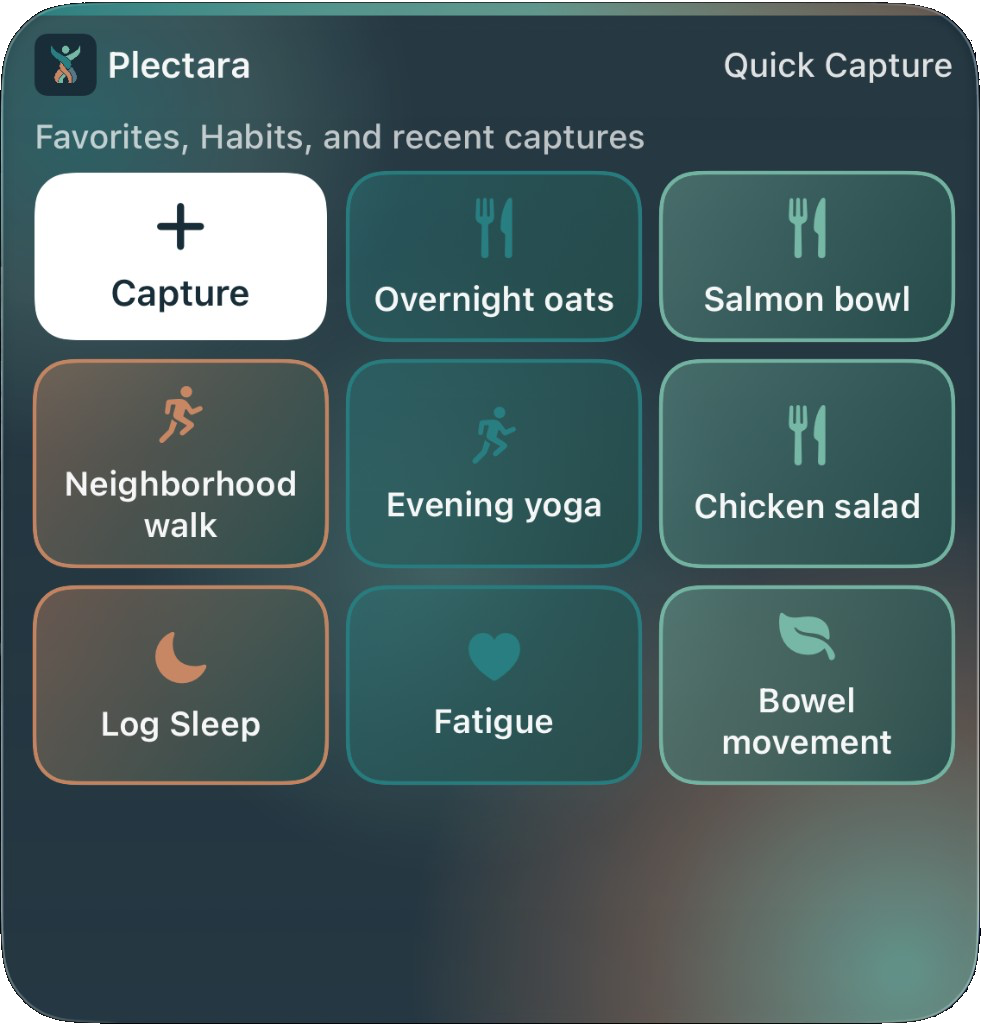
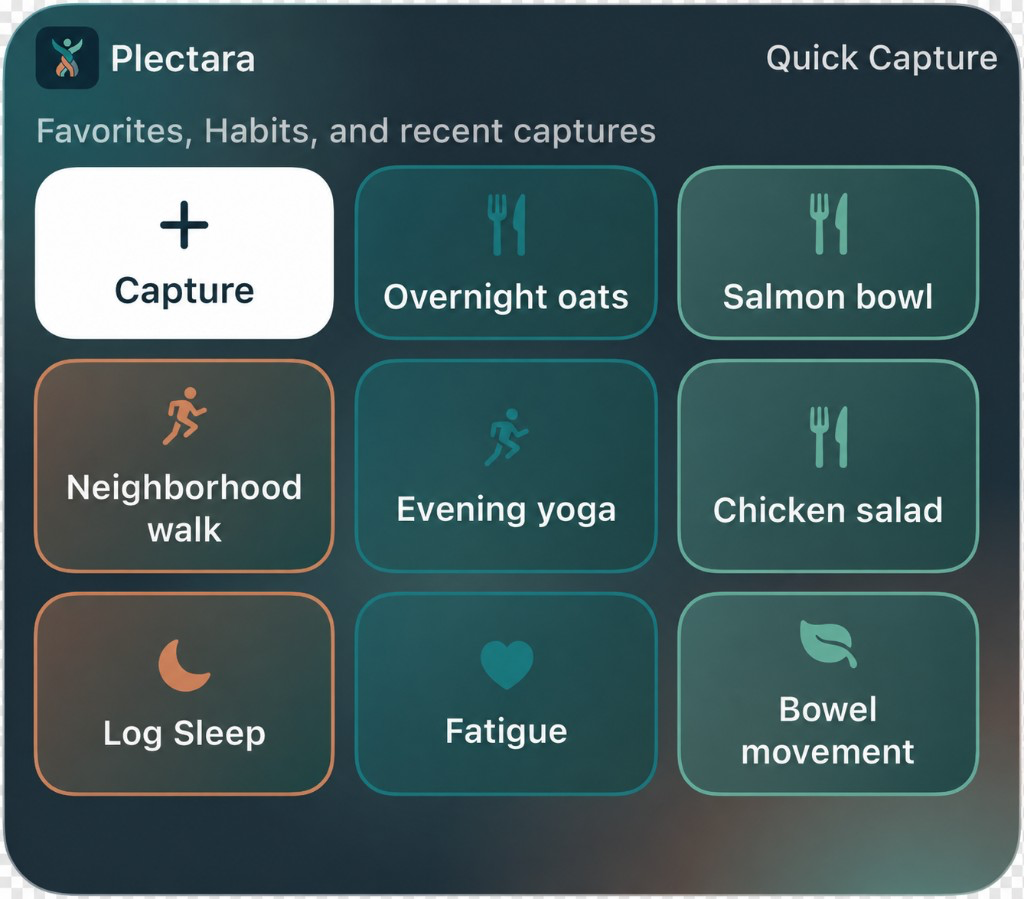
Replace Home Screen widget shots with the tighter crops.
Keep the original artwork unaltered and match the layout to the new aspect ratios so the widgets are not stretched.

diff --git a/src/components/PhotoPlaceholder.tsx b/src/components/PhotoPlaceholder.tsx
@@ -3,8 +3,8 @@ import Image from 'next/image';
 const aspects = {
   phone: 'aspect-[498/1024]',
   'widget-small': 'aspect-square',
-  'widget-medium': 'aspect-[338/158]',
-  'widget-large': 'aspect-[338/354]',
+  'widget-medium': 'aspect-[1024/482]',
+  'widget-large': 'aspect-[1024/899]',
 } as const;
 
 const widths = {
